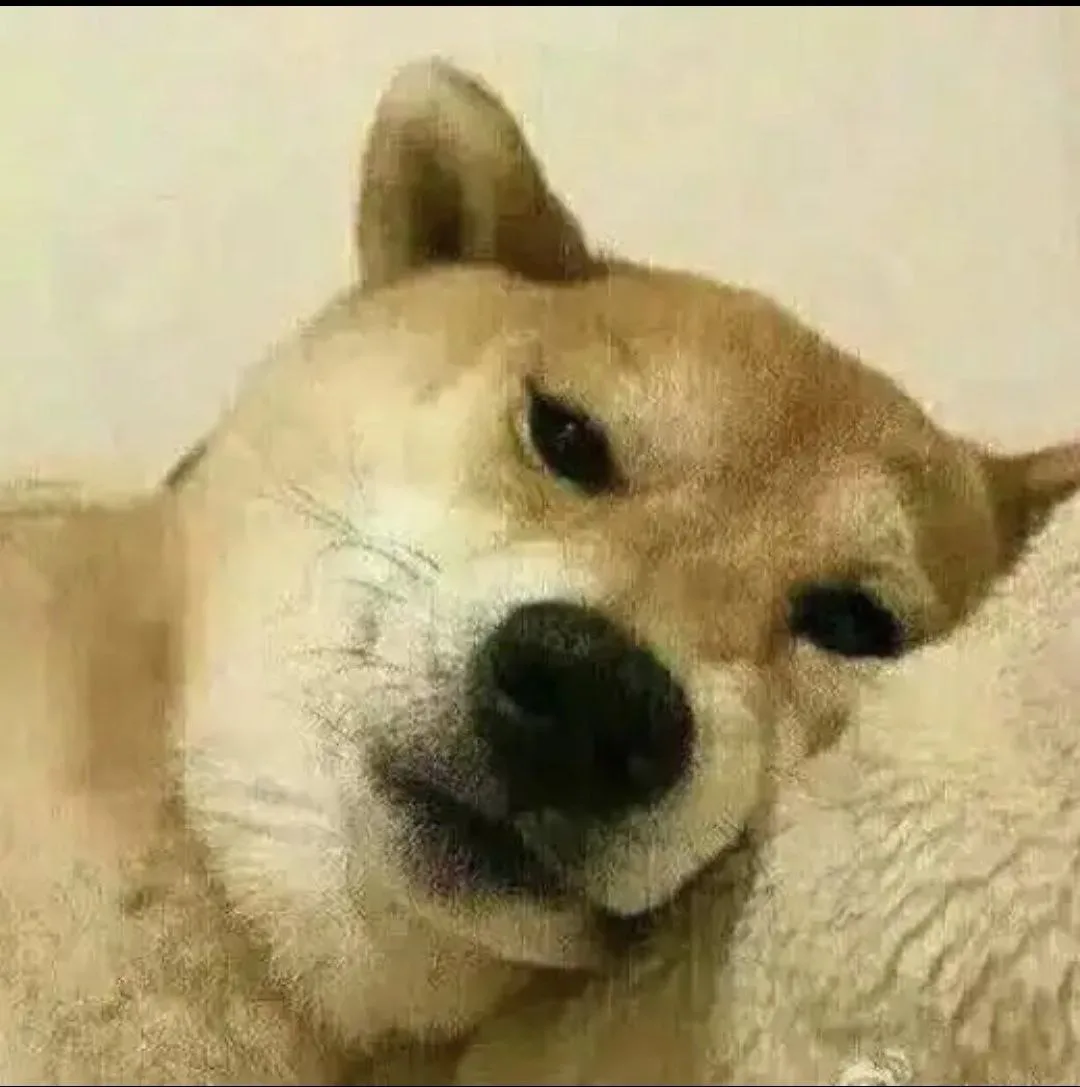
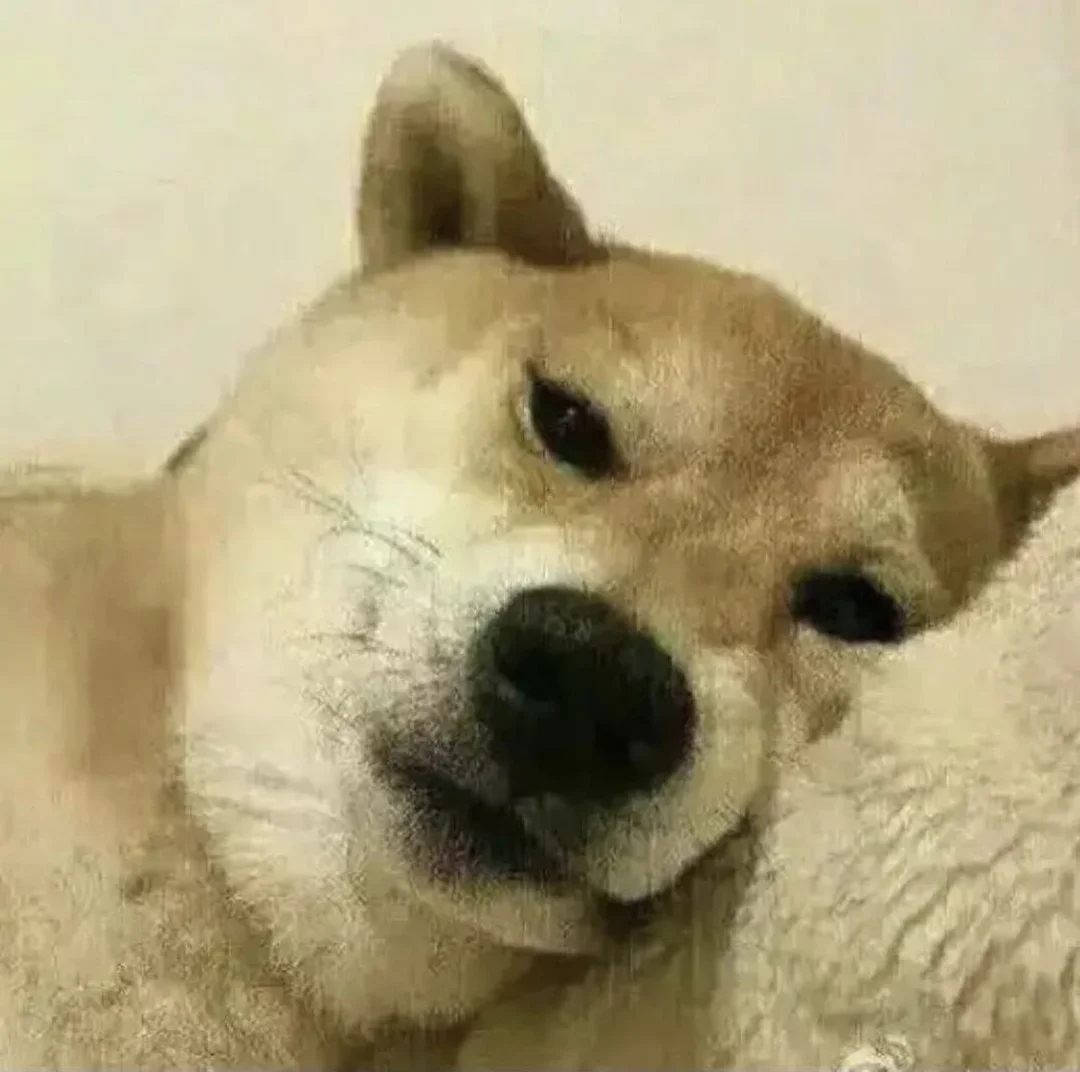
可爱论改名可爱是对一个人最高级别的欣赏并换配图

diff --git a/src/content/blog/瞬间/可爱论.md b/src/content/blog/瞬间/可爱论.md
@@ -1,5 +1,5 @@
 ---
-title: '可爱论'
+title: '可爱是对一个人最高级别的欣赏'
 slug: 'cute-theory'
 description: '可爱是对一个人最高级别的欣赏，可爱的人会自己发光。'
 date: 2026-02-07
